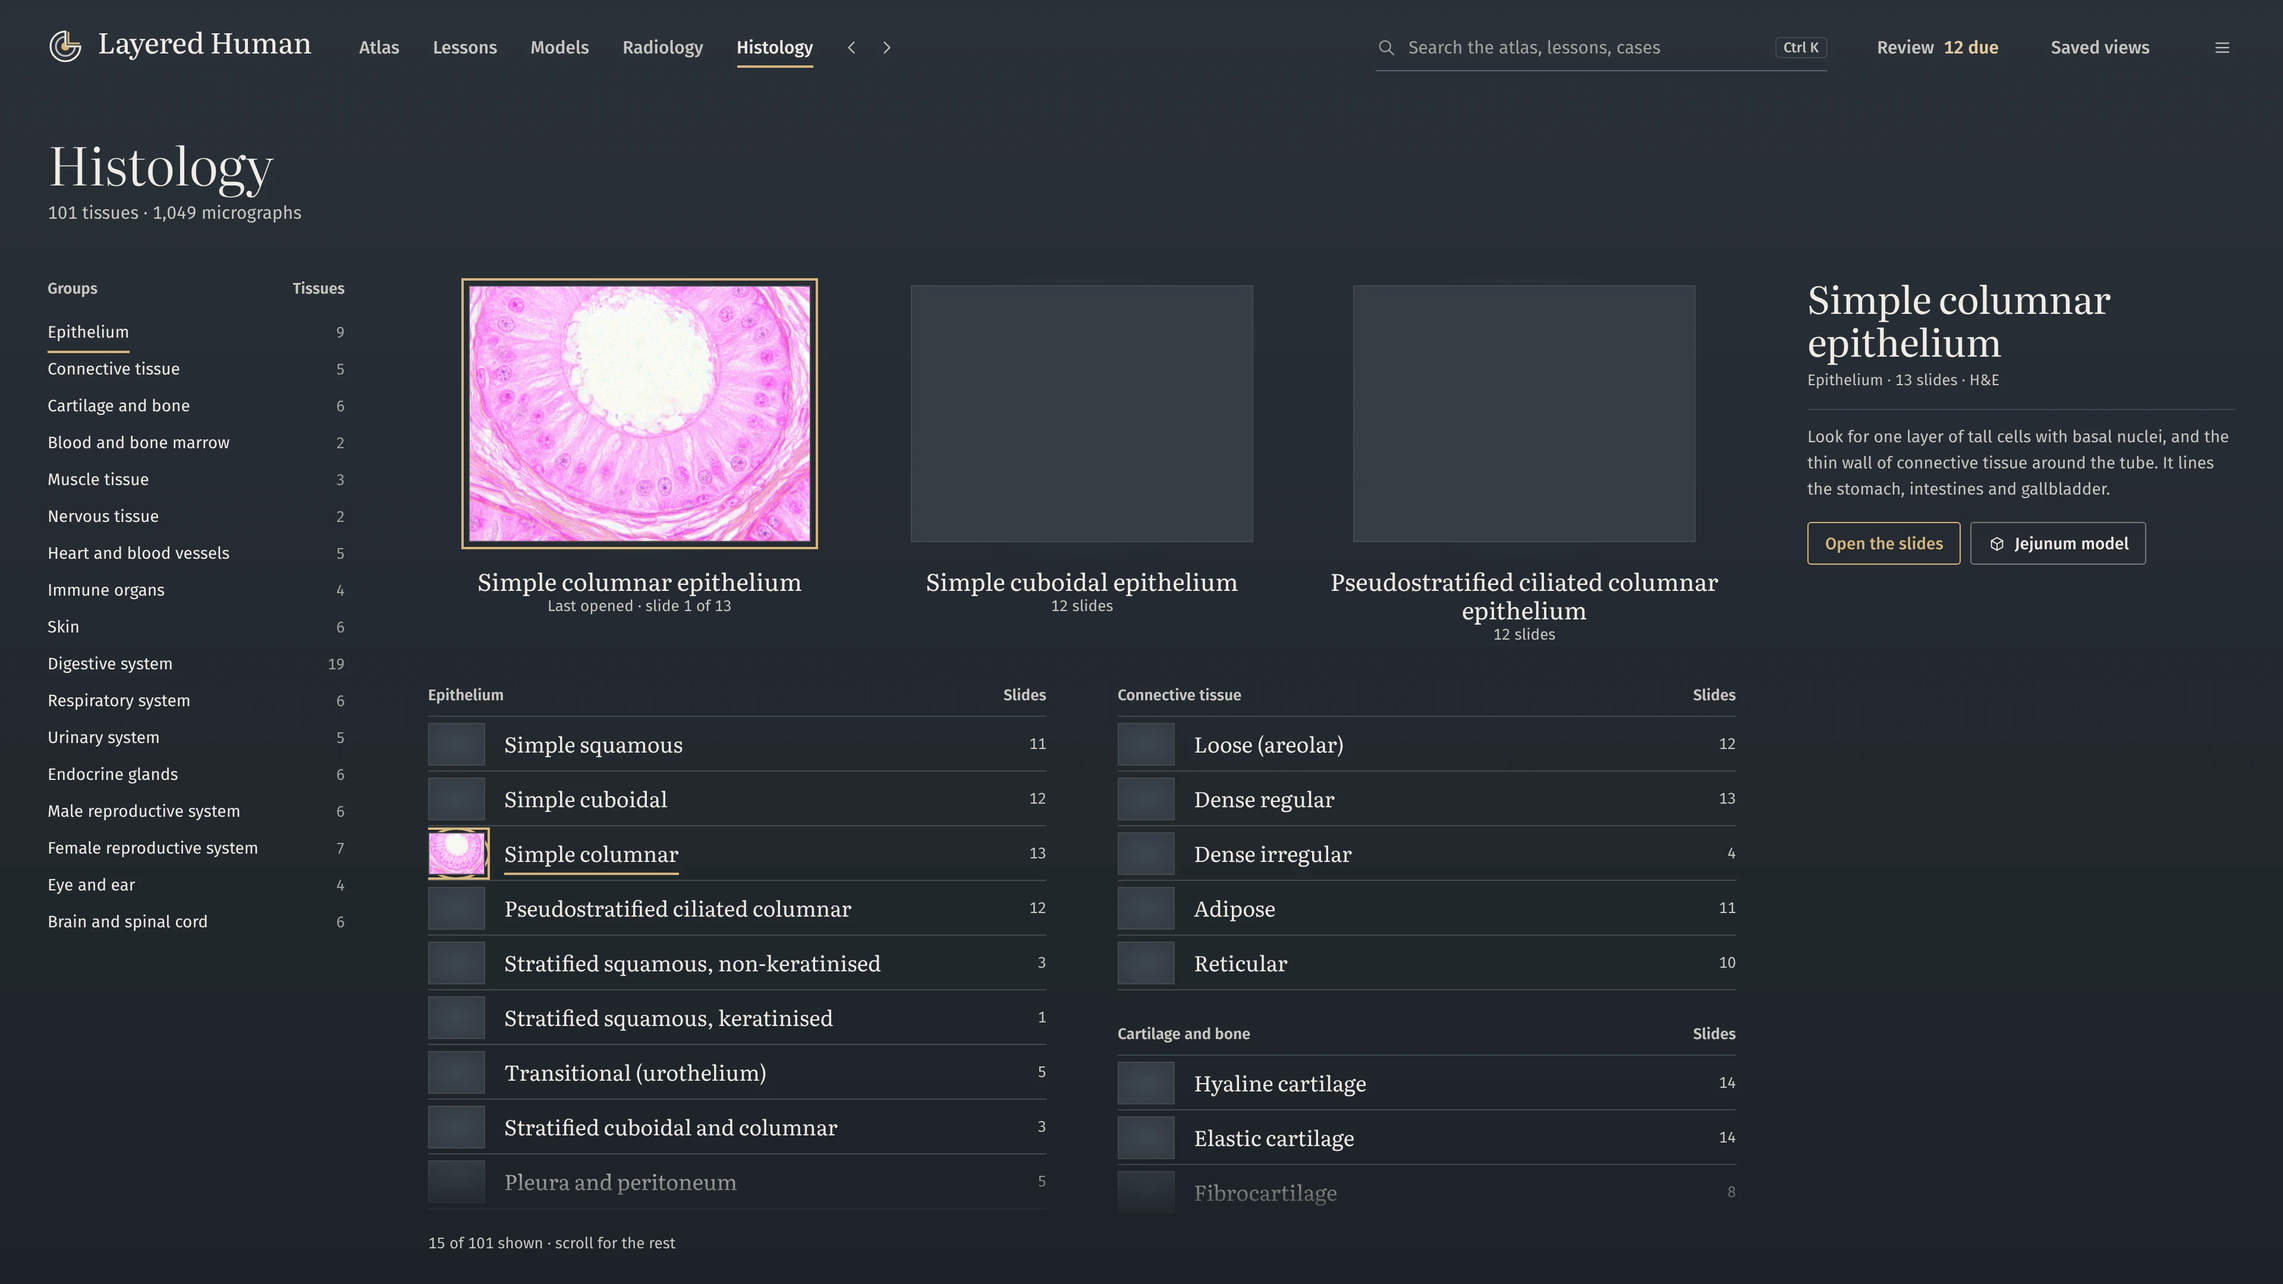
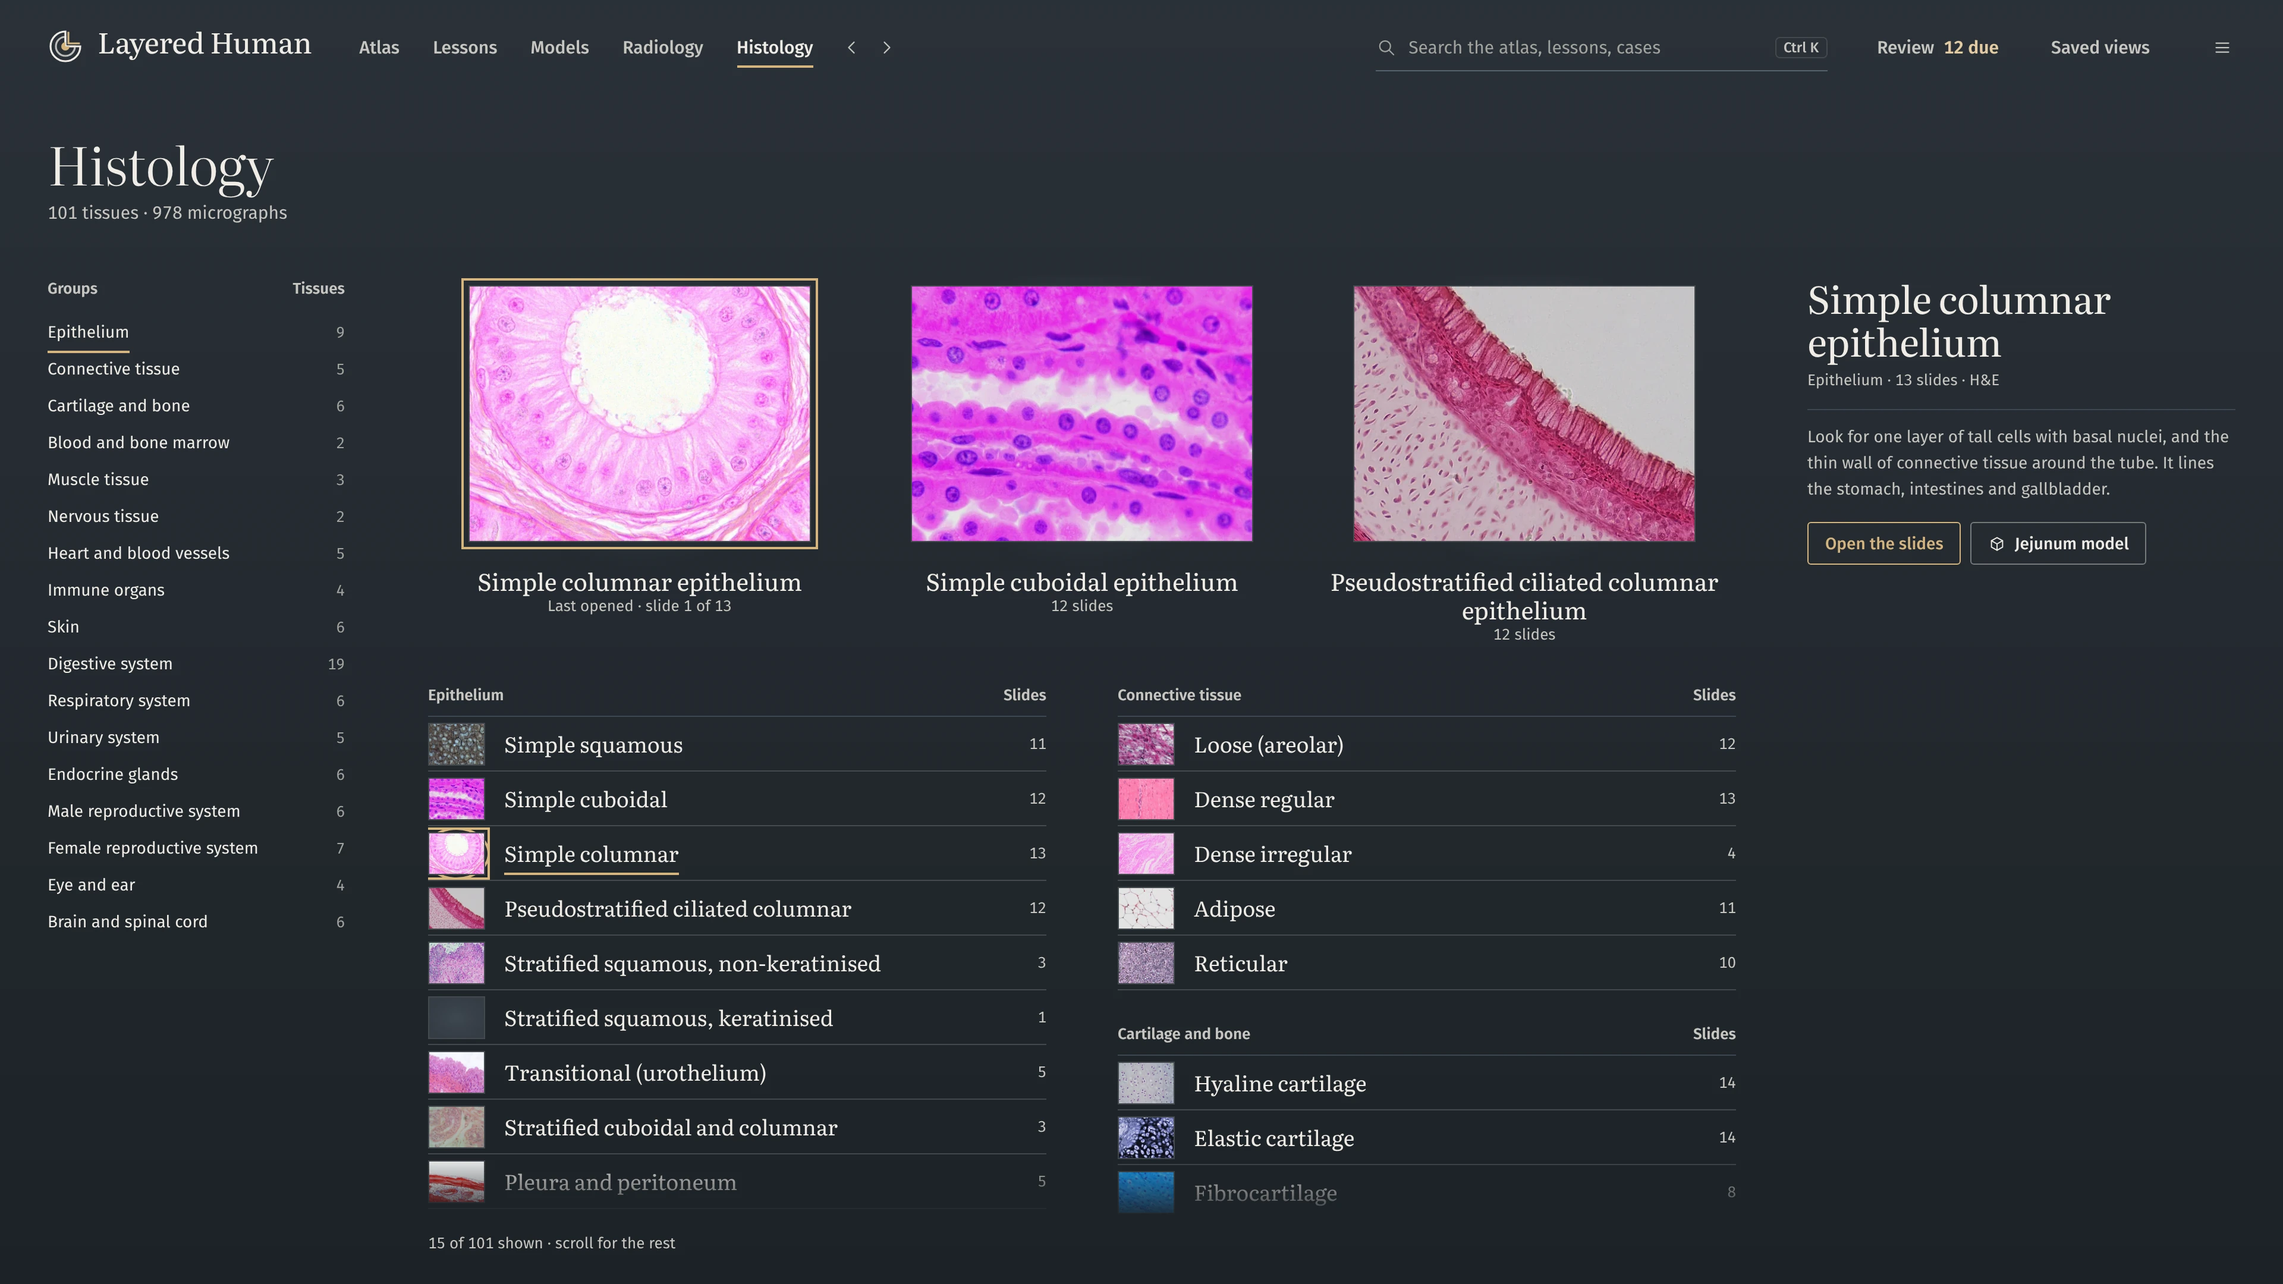
Specimen identity: Section cut down the midline, lockup mark at 2.2 cap heights; real micrographs in the library options
Claude-Session: https://claude.ai/code/session_01V6Rv2hd8qtgD4JUJWb2Nr9

diff --git a/docs/design/2026-10-14-layered-human/app/specimen-library/index.html b/docs/design/2026-10-14-layered-human/app/specimen-library/index.html
@@ -236,6 +236,7 @@ svg.leaders .anchor.is-selected { fill: var(--accent); stroke: var(--stage-botto
 .it .bar i { position: absolute; left: 0; top: 0; bottom: 0; width: calc(var(--p) * 100%); background: var(--accent); }
 .ph { display: block; background: var(--surface-2); }   /* plain placeholder: the mockup has no micrograph of this tissue */
 .slide { display: block; object-fit: cover; border: 1px solid var(--hair); }
+.slide[src$="/strat_squamous_nk.webp"] { object-view-box: inset(702px 4px 42px 306px); }   /* the catalogue's only micrograph is an eight-panel figure: show panel H, the epithelium itself */
 
 /* 1 and 3: catalogue rows */
 .cat-head { display: none; }
@@ -596,25 +597,25 @@ svg.leaders .anchor.is-selected { fill: var(--accent); stroke: var(--stage-botto
 <section class="screen" data-screen-id="histology-library">
 <div class="app lib hl">
   <header class="head" data-chrome="histology"></header>
-  <div class="exhibit"><h1>Histology</h1><p class="num">101 tissues · 1,049 micrographs</p></div>
+  <div class="exhibit"><h1>Histology</h1><p class="num">101 tissues · 978 micrographs</p></div>
   <div class="lib-side cat">
     <div class="colhead" style="display:flex">Groups<span style="margin-left:auto">Tissues</span></div>
     <ul data-tissue-groups></ul>
   </div>
   <div class="lib-main">
     <div class="lit slides">
-      <div class="v is-sel"><div class="fig"><div class="pool"></div><img class="slide" src="../../assets/images/histo_simple_columnar.jpg" alt="Simple columnar epithelium around a large central lumen"></div>
+      <div class="v is-sel"><div class="fig"><div class="pool"></div><img class="slide" src="../../assets/images/histo/simple_columnar.webp" alt="Simple columnar epithelium around a large central lumen"></div>
         <b class="vt">Simple columnar epithelium</b><span class="meta num">Last opened · slide 1 of 13</span></div>
-      <div class="v"><div class="fig"><div class="pool"></div><span class="ph slide"></span></div>
+      <div class="v"><div class="fig"><div class="pool"></div><img class="slide" src="../../assets/images/histo/simple_cuboidal.webp" alt="Simple cuboidal epithelium: cells with round nuclei beside a lumen"></div>
         <b class="vt">Simple cuboidal epithelium</b><span class="meta num">12 slides</span></div>
-      <div class="v"><div class="fig"><div class="pool"></div><span class="ph slide"></span></div>
+      <div class="v"><div class="fig"><div class="pool"></div><img class="slide" src="../../assets/images/histo/pseudostratified.webp" alt="Trachea: ciliated epithelium, goblet cells and cartilage"></div>
         <b class="vt">Pseudostratified ciliated columnar epithelium</b><span class="meta num">12 slides</span></div>
     </div>
     <div class="tissues" data-tissues></div>
   </div>
   <p class="meta foot num"><span class="v1">26 of 101 shown</span><span class="v2">14 of 101 shown</span><span class="v3">15 of 101 shown</span> · scroll for the rest</p>
   <aside class="label-card lib-detail">
-    <div class="dfig"><img class="slide" src="../../assets/images/histo_simple_columnar.jpg" alt="Simple columnar epithelium around a large central lumen"></div>
+    <div class="dfig"><img class="slide" src="../../assets/images/histo/simple_columnar.webp" alt="Simple columnar epithelium around a large central lumen"></div>
     <div class="t">Simple columnar epithelium</div>
     <div class="meta num">Epithelium · 13 slides · H&amp;E</div>
     <hr>
@@ -709,31 +710,33 @@ svg.leaders .anchor.is-selected { fill: var(--accent); stroke: var(--stage-botto
       <span>${i === 4 ? `<span class="is-cur">${t}</span>` : t}</span><span class="n num">${s}</span></li>`).join('');
   });
   // Histology: groups, names and slide counts from data/histology/catalog.json ("&" written "and"; inside a group the
-  // group word is dropped, as in the Histology room's list). Only simple columnar has micrographs in the mockup.
+  // group word is dropped, as in the Histology room's list). The third field is the tissue's micrograph in
+  // assets/images/histo/ (one per tissue, from the catalogue; credits in assets/images/CREDITS.json); none = no usable image.
   const TGROUPS = [['Epithelium', 9], ['Connective tissue', 5], ['Cartilage and bone', 6], ['Blood and bone marrow', 2], ['Muscle tissue', 3],
     ['Nervous tissue', 2], ['Heart and blood vessels', 5], ['Immune organs', 4], ['Skin', 6], ['Digestive system', 19], ['Respiratory system', 6],
     ['Urinary system', 5], ['Endocrine glands', 6], ['Male reproductive system', 6], ['Female reproductive system', 7], ['Eye and ear', 4],
     ['Brain and spinal cord', 6]];
+  const SEL_TISSUE = 'Simple columnar';
   const TISSUES = [
-    ['Epithelium', [['Simple squamous', 11], ['Simple cuboidal', 12], ['Simple columnar', 13, 'histo_simple_columnar'], ['Pseudostratified ciliated columnar', 12],
-      ['Stratified squamous, non-keratinised', 3], ['Stratified squamous, keratinised', 1], ['Transitional (urothelium)', 5],
-      ['Stratified cuboidal and columnar', 3], ['Pleura and peritoneum', 5]]],
-    ['Connective tissue', [['Loose (areolar)', 12], ['Dense regular', 13], ['Dense irregular', 4], ['Adipose', 11], ['Reticular', 10]]],
-    ['Cartilage and bone', [['Hyaline cartilage', 14], ['Elastic cartilage', 14], ['Fibrocartilage', 8], ['Compact bone', 14], ['Spongy bone', 8],
-      ['Bone development and growth plate', 14]]],
-    ['Blood and bone marrow', [['Bone marrow', 13], ['Blood cells', 13]]],
-    ['Muscle tissue', [['Skeletal muscle', 15], ['Cardiac muscle', 14], ['Smooth muscle', 13]]],
-    ['Nervous tissue', [['Peripheral nerve', 16], ['Sensory and autonomic ganglia', 6]]],
-    ['Heart and blood vessels', [['Elastic artery (aorta)', 7], ['Muscular arteries and arterioles', 12], ['Veins and venules', 13],
-      ['Capillaries and sinusoids', 12], ['Heart valves, endocardium and pericardium', 1]]]];
+    ['Epithelium', [['Simple squamous', 11, 'simple_squamous'], ['Simple cuboidal', 12, 'simple_cuboidal'], ['Simple columnar', 13, 'simple_columnar'], ['Pseudostratified ciliated columnar', 12, 'pseudostratified'],
+      ['Stratified squamous, non-keratinised', 3, 'strat_squamous_nk'], ['Stratified squamous, keratinised', 1], ['Transitional (urothelium)', 5, 'transitional'],
+      ['Stratified cuboidal and columnar', 3, 'strat_cub_col'], ['Pleura and peritoneum', 5, 'serosa']]],
+    ['Connective tissue', [['Loose (areolar)', 12, 'loose_ct'], ['Dense regular', 13, 'dense_regular'], ['Dense irregular', 4, 'dense_irregular'], ['Adipose', 11, 'adipose'], ['Reticular', 10, 'reticular_ct']]],
+    ['Cartilage and bone', [['Hyaline cartilage', 14, 'hyaline_cartilage'], ['Elastic cartilage', 14, 'elastic_cartilage'], ['Fibrocartilage', 8, 'fibrocartilage'], ['Compact bone', 14, 'compact_bone'], ['Spongy bone', 8, 'spongy_bone'],
+      ['Bone development and growth plate', 14, 'ossification']]],
+    ['Blood and bone marrow', [['Bone marrow', 13, 'bone_marrow'], ['Blood cells', 13, 'blood']]],
+    ['Muscle tissue', [['Skeletal muscle', 15, 'skeletal_muscle'], ['Cardiac muscle', 14, 'cardiac_muscle'], ['Smooth muscle', 13, 'smooth_muscle']]],
+    ['Nervous tissue', [['Peripheral nerve', 16, 'peripheral_nerve'], ['Sensory and autonomic ganglia', 6, 'ganglion']]],
+    ['Heart and blood vessels', [['Elastic artery (aorta)', 7, 'elastic_artery'], ['Muscular arteries and arterioles', 12, 'muscular_artery'], ['Veins and venules', 13, 'vein'],
+      ['Capillaries and sinusoids', 12, 'capillaries'], ['Heart valves, endocardium and pericardium', 1]]]];
   document.querySelectorAll('[data-tissue-groups]').forEach(el => {
     el.innerHTML = TGROUPS.map(([g, n], i) => `<li>${i === 0 ? `<span class="is-cur">${g}</span>` : g}<span class="n num">${n}</span></li>`).join('');
   });
   document.querySelectorAll('[data-tissues]').forEach(el => {
     el.innerHTML = TISSUES.map(([g, ts]) => `<div class="grp"><div class="colhead">${g}<span>Slides</span></div><div class="items">` +
-      ts.map(([t, n, img]) => `<div class="it ${img ? 'is-sel' : ''}"><div class="fig"><div class="pool"></div>${img
-        ? `<img class="slide" src="../../assets/images/${img}.jpg" alt="">` : '<span class="ph slide"></span>'}</div>
-        <span class="ti">${img ? `<span class="is-cur">${t}</span>` : t}</span><span class="ct meta num">${n}<span class="v2"> ${n === 1 ? 'slide' : 'slides'}</span></span></div>`).join('') +
+      ts.map(([t, n, img]) => `<div class="it ${t === SEL_TISSUE ? 'is-sel' : ''}"><div class="fig"><div class="pool"></div>${img
+        ? `<img class="slide" src="../../assets/images/histo/${img}.webp" alt="">` : '<span class="ph slide"></span>'}</div>
+        <span class="ti">${t === SEL_TISSUE ? `<span class="is-cur">${t}</span>` : t}</span><span class="ct meta num">${n}<span class="v2"> ${n === 1 ? 'slide' : 'slides'}</span></span></div>`).join('') +
       '</div></div>').join('');
   });
   // Each caption says what is inside, in five words or fewer (README and data/content/model_summaries.json).

diff --git a/docs/design/2026-10-14-layered-human/site/specimen/index.html b/docs/design/2026-10-14-layered-human/site/specimen/index.html
@@ -322,6 +322,7 @@ main { overflow-x: clip; }
 .peel-stage { position: relative; height: 100%; }
 .peel-stage .plate { position: absolute; max-width: none; }
 .peel-stage #hero-img { position: relative; height: 100%; width: auto; z-index: 20; }
+.peel-stage img.lift, .spot-on .exhibit:not(.is-lit) .peel-stage img.lift { filter: url(#lift-shadows); }   /* as in the layers gallery */
 .hero-label { position: absolute; z-index: 4; right: var(--gutter); top: calc(var(--by) - 13px); width: 340px; }
 .hero-label .wl-acc { color: var(--text-2); }   /* it sits in the spotlight, where the muted colour drops below 4.5:1 */
 .hl-body { display: grid; }
@@ -376,8 +377,9 @@ main { overflow-x: clip; }
   cursor: grab; touch-action: none;
 }
 .g-knob:focus { outline: none; }
-.g-knob:focus-visible { outline: 2px solid var(--accent); outline-offset: 4px; }
-.g-knob:focus-visible ~ .g-stops .g-stop.cur span { text-decoration: underline 2px var(--accent); text-underline-offset: 6px; }
+/* the ring shows when the knob was reached or moved by keyboard, not after a drag (.is-kb is set by the last input) */
+.gauge.is-kb .g-knob:focus { outline: 2px solid var(--accent); outline-offset: 4px; }
+.gauge.is-kb .g-knob:focus ~ .g-stops .g-stop.cur span { text-decoration: underline 2px var(--accent); text-underline-offset: 6px; }
 
 /* ---------- Rooms ---------- */
 .room { padding: clamp(96px, 11vw, 168px) var(--gutter); }
@@ -646,7 +648,7 @@ main { overflow-x: clip; }
 @media (max-width: 899px) {
   /* Phones: the body under the light comes first, its legs fading under the headline; the gauge beside it. */
   .hero {
-    --fig-h: clamp(420px, 58svh, 560px);
+    --fig-h: clamp(400px, 54svh, 520px);
     grid-template-columns: auto minmax(0, 1fr); grid-template-areas: "spec gauge" "copy copy" "label label";
     column-gap: 14px; justify-content: center;
   }
@@ -657,7 +659,7 @@ main { overflow-x: clip; }
   .g-end, .g-pct { display: none; }
   .g-stop { gap: 8px; }
   .g-stop span { font-size: 13px; }
-  .g-stop.cur span { font-size: 15px; font-weight: 460; }
+  .g-stop.cur span { font-size: 14px; font-weight: 500; }
   .g-track { min-height: 0; margin-top: 16px; }
   .split, .otc, .micro, .course, .two-texts, .eff, .desk-after { grid-template-columns: minmax(0, 1fr); }
   .split { gap: 20px; }
@@ -820,7 +822,7 @@ main { overflow-x: clip; }
 
   <figure class="hero-spec pool" id="hero-spec" role="img" aria-label="The whole body from the front at the skin surface, nothing removed">
     <div class="peel-stage" id="peel-stage">
-      <img class="plate" id="hero-img" src="../../assets/plates/peel_00_skin.webp" width="929" height="2240" fetchpriority="high" alt="">
+      <img class="plate lift" id="hero-img" src="../../assets/plates/peel_00_skin.webp" width="929" height="2240" fetchpriority="high" alt="">
     </div>
     <svg width="0" height="0" style="position:absolute" aria-hidden="true" focusable="false">
       <!-- Both biceps on the 8% selection render. At 16% they are unchanged, so that render is shown through this outline. -->
@@ -1552,7 +1554,7 @@ main { overflow-x: clip; }
       dragging = true; track.classList.add('is-dragging');
       track.setPointerCapture(e.pointerId);
       setDepth(yToDepth(e.clientY));
-      knob.focus({ preventScroll: true });
+      knob.focus({ preventScroll: true });   /* keys work after a drag; the ring is for the keyboard */
       e.preventDefault();
     });
     track.addEventListener('pointermove', function (e) { if (dragging) setDepth(yToDepth(e.clientY)); });
@@ -1569,6 +1571,8 @@ main { overflow-x: clip; }
       e.preventDefault(); load(); animateTo(STOPS[to].lv);
     });
     knob.addEventListener('focus', load);
+    document.addEventListener('keydown', function () { gauge.classList.add('is-kb'); }, true);
+    document.addEventListener('pointerdown', function () { gauge.classList.remove('is-kb'); }, true);
     /* the deeper plates come once the page is idle, so the first paint is only the skin */
     function idle() {
       if (window.requestIdleCallback) requestIdleCallback(load, { timeout: 2500 }); else setTimeout(load, 800);

diff --git a/docs/design/2026-10-14-layered-human/tools/build_identity.py b/docs/design/2026-10-14-layered-human/tools/build_identity.py
@@ -68,7 +68,7 @@ MIDLINE_BRASS = {"light": "#8c6a32"}      # the muscle on paper: a darker brass,
 MIDLINE_MONO = .62                        # one colour: the muscle at 62% of the ink
 MIDLINE_MAC = {16: 11, 32: 19}            # macOS 16 and 32 px: the mark's larger side in output pixels
 MIDLINE_WIN = {16: 12, 24: 18, 32: 24, 48: 36}   # Windows and favicon tiles, full bleed
-MIDLINE_LOCKUP, MIDLINE_FAVICON = 28, 12  # drawings for the lockups (the app header) and the favicon
+MIDLINE_LOCKUP, MIDLINE_FAVICON = 36, 12  # drawings for the lockups (the app header) and the favicon
 
 # Plate: the figure plate. Heights are fractions of the art box; the anchors are named in figure.json.
 FIG_ALPHA = {"dark": .18, "light": .16, "mono": .16}
@@ -82,7 +82,7 @@ ANCHORS = ("biceps.vl", "rectus_femoris.vr", "sartorius.vr", "deltoid.vl", "pect
            "tibialis_anterior.vl")
 
 # Lockups: visible symbol height and gap, both in cap heights.
-LOCKUP = {"overlay": (2.1, .8), "specimen": (1.7, .7)}
+LOCKUP = {"overlay": (2.1, .8), "specimen": (2.2, .45)}   # Specimen as Section had it at checkpoint 1
 
 # Mark extent per icon family: films' visible size, section diameter or figure height, as a fraction of the tile.
 MAC = {"overlay": .57, "specimen": .58, "plate": .76}

diff --git a/docs/design/2026-10-14-layered-human/identity/README.md b/docs/design/2026-10-14-layered-human/identity/README.md
@@ -131,7 +131,7 @@ The HTML mockups use an inline symbol next to live text. These recipes reproduce
 - Overlay: Archivo, `font-weight: 640; font-stretch: 90%; letter-spacing: -0.01em`. The visible films are
   2.1× the cap height; the gap is 0.8× the cap height. The symbol is centred on the middle of the caps.
 - Specimen: Literata, `font-weight: 450; font-variation-settings: "opsz" 36; letter-spacing: -0.005em`.
-  The visible mark (the circle with its stepped half) is 1.7× the cap height; the gap is 0.7× the cap height.
+  The visible mark (the circle with its stepped half) is 2.2× the cap height; the gap is 0.45× the cap height.
   Centred on the middle of the caps.
 - Plate: Atkinson Hyperlegible Next, `font-weight: 700; letter-spacing: -0.01em`, then a leader.
   The leader starts 0.32em after the last letter, is 1.15em long and 0.07em thick, and sits at the middle of the
@@ -147,7 +147,7 @@ clamps the weight to 400 and the live text comes out lighter than the outlines.
 
 <!-- recipes:start -->
 - Overlay: symbol `width:1.646em; height:1.646em; margin-right:0.377em; vertical-align:-0.480em`. At 15.5px: symbol 25.5px, margin 5.8px.
-- Specimen: symbol `width:1.379em; height:1.379em; margin-right:0.352em; vertical-align:-0.335em`. At 23px: symbol 31.7px, margin 8.1px.
+- Specimen: symbol `width:1.785em; height:1.785em; margin-right:0.149em; vertical-align:-0.538em`. At 23px: symbol 41.1px, margin 3.4px.
 - Plate: leader `<svg viewBox="0 0 1350 400">` `width:1.35em; height:0.40em; margin-left:0.276em; vertical-align:0.048em`.
 - Overlay metrics: cap 686, x-height 526, units per em 1000, ink left 69, axes {'wght': 640, 'wdth': 90}.
 - Specimen metrics: cap 710, x-height 510, units per em 1000, ink left 59, axes {'opsz': 36, 'wght': 450}.
